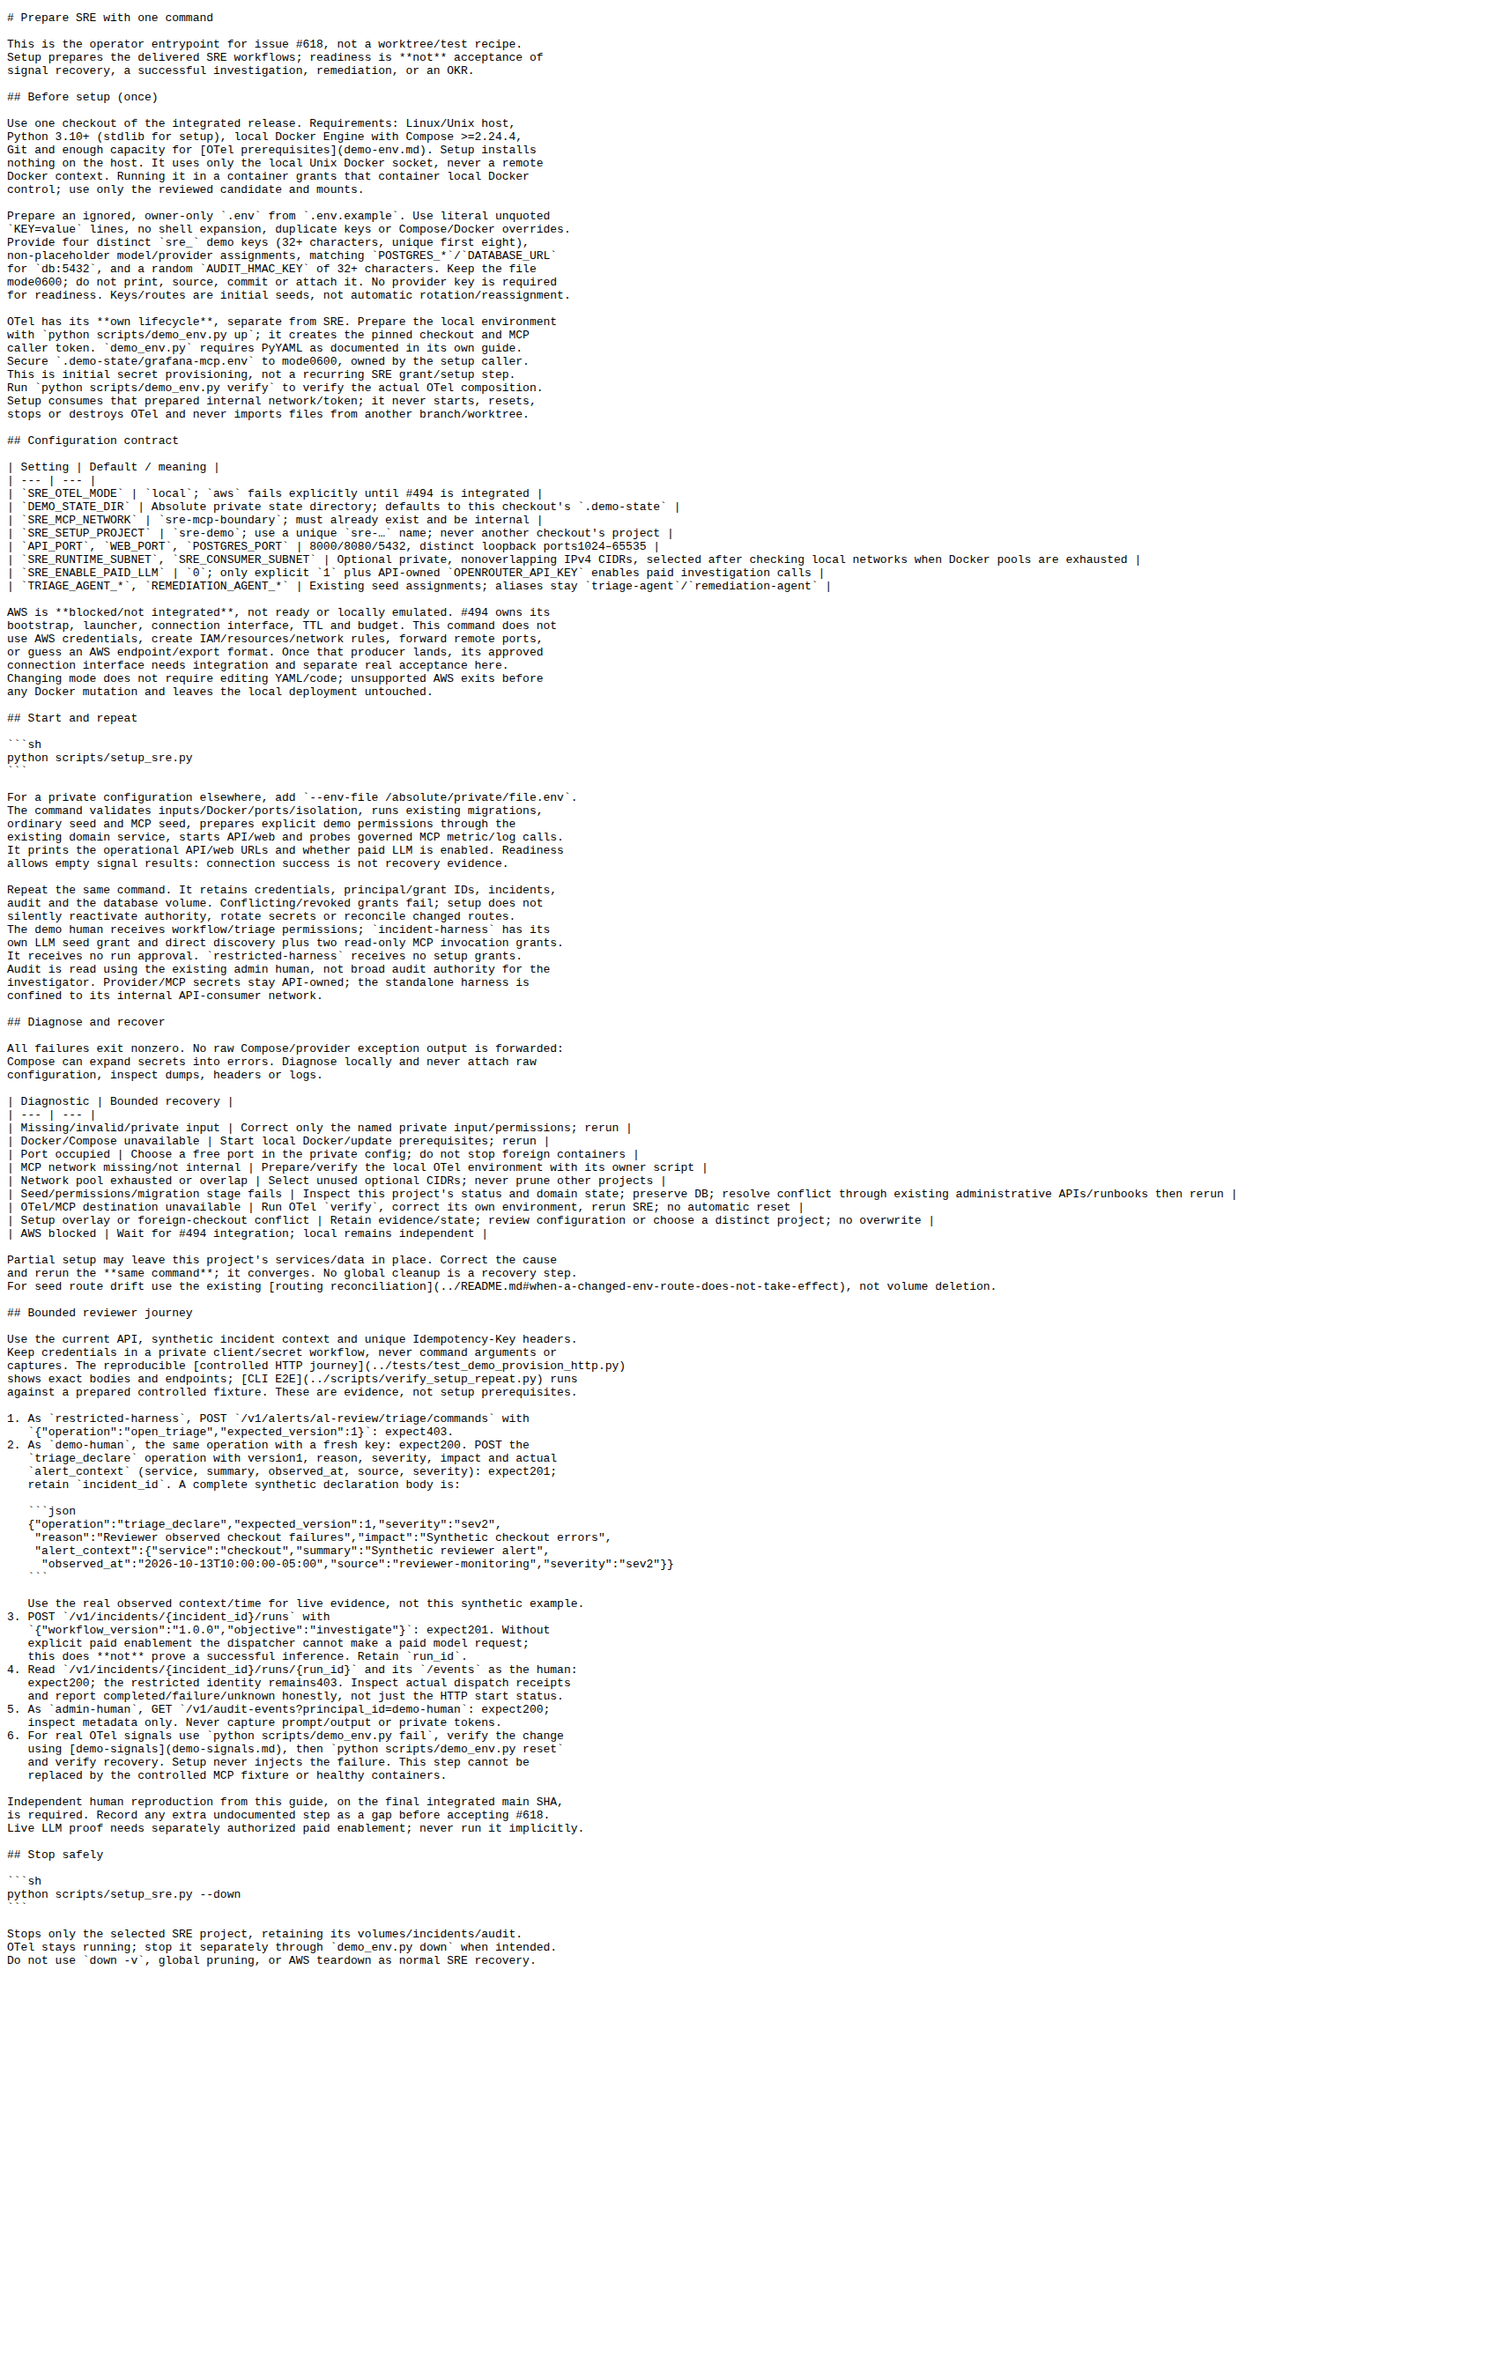
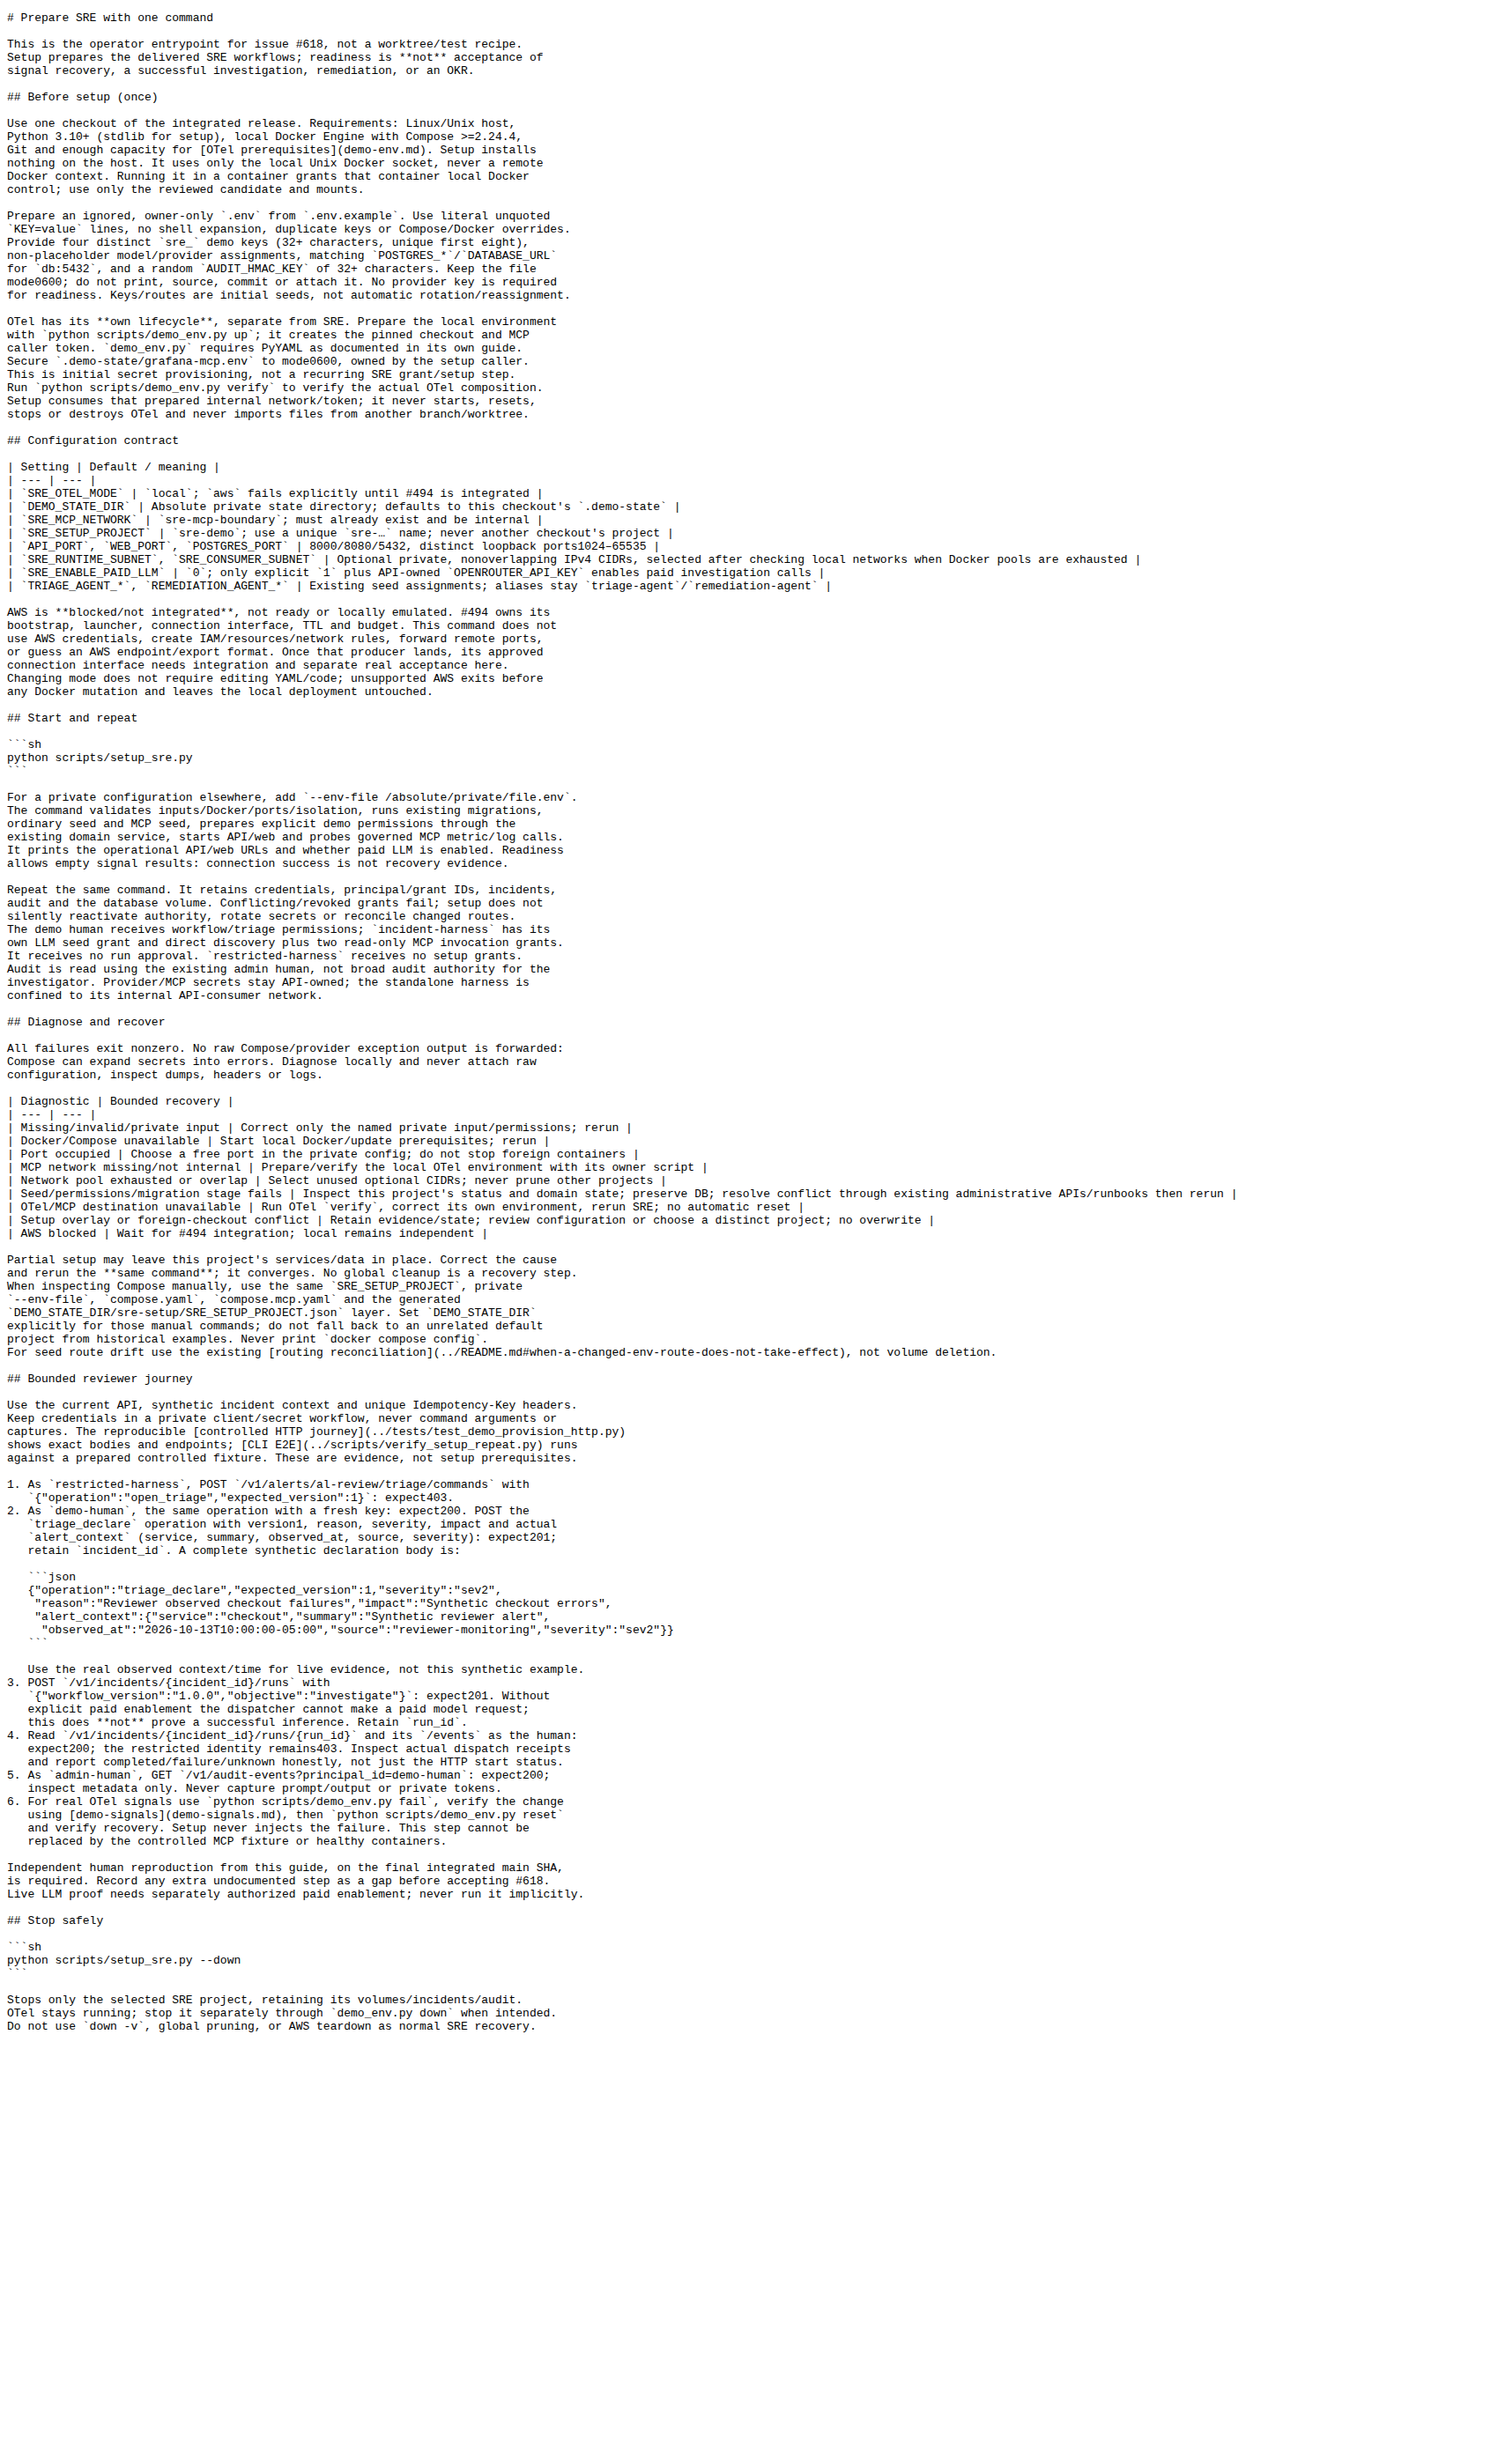
docs(setup): keep private clients and diagnostics on canonical scope

diff --git a/README.md b/README.md
@@ -83,15 +83,12 @@ routing expectations. A missing enable flag or provider/audit secret produces a 
 
 ### Verify one authorized response
 
-With `INCIDENT_HARNESS_API_KEY` already loaded by your local secret-management workflow, send one
-bounded request directly to the API. Do not paste or commit the credential.
-
-```bash
-curl -i http://localhost:8000/v1/responses \
-  -H "Authorization: Bearer ${INCIDENT_HARNESS_API_KEY}" \
-  -H "Content-Type: application/json" \
-  -d '{"model":"triage-agent","input":"Summarize the incident."}'
-```
+Use a private HTTP client/secret-management workflow against the URL printed by
+setup. Do not place credentials in command arguments (`curl -H` would expose them
+to process inspection). Paid requests require explicit `SRE_ENABLE_PAID_LLM=1`
+and an API-owned provider key; setup itself never sends a model request.
+See the [bounded operator journey](docs/setup-sre.md#bounded-reviewer-journey)
+for safe credential handling, run readback and denial evidence.
 
 An authorized, correctly routed request returns `200` with a completed text item at
 `output[0].content[0].text`. The gateway validates OpenRouter's completed Responses envelope and

diff --git a/docs/setup-sre.md b/docs/setup-sre.md
@@ -94,6 +94,11 @@ configuration, inspect dumps, headers or logs.
 
 Partial setup may leave this project's services/data in place. Correct the cause
 and rerun the **same command**; it converges. No global cleanup is a recovery step.
+When inspecting Compose manually, use the same `SRE_SETUP_PROJECT`, private
+`--env-file`, `compose.yaml`, `compose.mcp.yaml` and the generated
+`DEMO_STATE_DIR/sre-setup/SRE_SETUP_PROJECT.json` layer. Set `DEMO_STATE_DIR`
+explicitly for those manual commands; do not fall back to an unrelated default
+project from historical examples. Never print `docker compose config`.
 For seed route drift use the existing [routing reconciliation](../README.md#when-a-changed-env-route-does-not-take-effect), not volume deletion.
 
 ## Bounded reviewer journey

diff --git a/odd/tasks/issue-618-setup.md b/odd/tasks/issue-618-setup.md
@@ -88,3 +88,8 @@ no production-source byte changed since tested155fc26 (git diff verified).
 S618-5 publication in progress; human review remains required. S618-4 partial:
 local real OTel fail/reset blocked by disk, AWS by unintegrated494; no paid enable.
 Next: publish final docs/results, request human review; do not merge/close618.
+
+Post-refactor exact focused rerun13passed1live-skip6.61s. Skip reason: explicit
+RUN_OPENROUTER_LIVE_SMOKE=1 required (not authorized/enabled). Removed historical
+README curl-secret argv example; manual Compose diagnostics explicitly keep the
+canonical project/layers, never an unrelated default project. Source unchanged.
